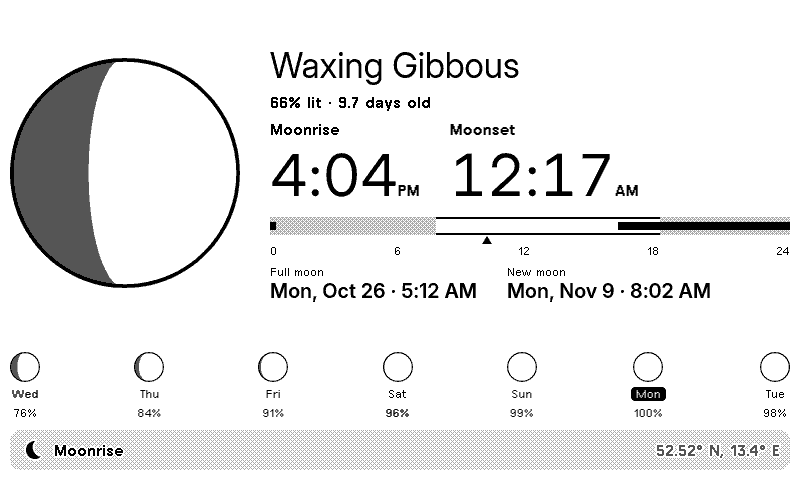
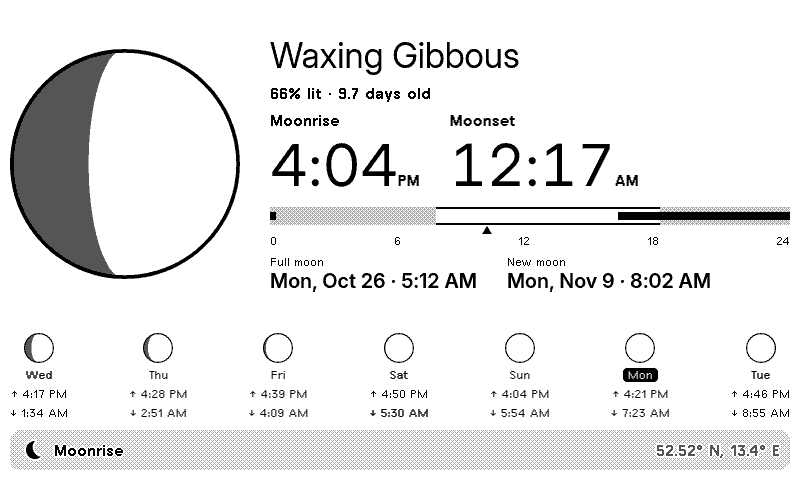
Show each day's moonrise and moonset in the week strip
The strip showed how much of the moon is lit on the coming days, much like the
phase timeline of TRMNL's own Lunar Calendar. It now shows when the moon rises
and sets on each of those days, which is what this recipe is about. The
transform finds them the same way as today's, per local day, so the switch to
winter time on Sunday keeps its 25 hours.

diff --git a/src/transform.py b/src/transform.py
@@ -272,6 +272,12 @@ def sun_spans(meteo, start, end):
     return None
 
 
+def day_bounds(day, tz):
+    """Local midnight to midnight (23 or 25 hours on a DST change day)."""
+    nxt = day + timedelta(days=1)
+    return datetime(day.year, day.month, day.day, tzinfo=tz), datetime(nxt.year, nxt.month, nxt.day, tzinfo=tz)
+
+
 def moon_for(lat, lon, tz, now, meteo=None):
     jd = jd_of(now)
     lit, elong, dist = illumination(jd)
@@ -281,9 +287,7 @@ def moon_for(lat, lon, tz, now, meteo=None):
 
     local = now.astimezone(tz)
     day = local.date()
-    start = datetime(day.year, day.month, day.day, tzinfo=tz)
-    nxt = day + timedelta(days=1)
-    end = datetime(nxt.year, nxt.month, nxt.day, tzinfo=tz)
+    start, end = day_bounds(day, tz)
     j0, j1 = jd_of(start), jd_of(end)
     pct = lambda jdx: round((jdx - j0) / (j1 - j0) * 100, 2)
 
@@ -308,14 +312,17 @@ def moon_for(lat, lon, tz, now, meteo=None):
         return {"phase": PHASES[kind], **day_of(at), **clock(at), "in_days": (at.date() - day).days}
 
     upcoming = [(j, k) for j, k in phases if j > jd]
+    local_clock = lambda j: clock(dt_of(j).astimezone(tz))
     days = []
     for n in range(1, 8):
-        d = day + timedelta(days=n)
-        noon = datetime(d.year, d.month, d.day, 12, tzinfo=tz)
-        d0, d1 = jd_of(noon) - 0.5, jd_of(noon) + 0.5
-        dl, de, _ = illumination(jd_of(noon))
-        days.append({**day_of(noon), "illum": round(dl * 100), "disc": disc_path(dl, de < 180, south),
-                     "phase": next((PHASES[k] for j, k in phases if d0 <= j < d1), None)})
+        d0, d1 = (jd_of(b) for b in day_bounds(day + timedelta(days=n), tz))
+        dl, de, _ = illumination((d0 + d1) / 2)
+        d_rises, d_sets, _ = rise_set(lat, lon, d0, d1)
+        days.append({**day_of(dt_of((d0 + d1) / 2).astimezone(tz)), "illum": round(dl * 100),
+                     "disc": disc_path(dl, de < 180, south),
+                     "phase": next((PHASES[k] for j, k in phases if d0 <= j < d1), None),
+                     "rise": local_clock(d_rises[0]) if d_rises else None,
+                     "set": local_clock(d_sets[0]) if d_sets else None})
 
     return {
         "ok": True,
@@ -323,8 +330,8 @@ def moon_for(lat, lon, tz, now, meteo=None):
         "lat": round(lat, 2), "lon": round(lon, 2),
         "illum": round(lit * 100), "age": round(jd - prev_new, 1), "phase": name, "waxing": waxing,
         "disc": disc_path(lit, waxing, south),
-        "rise": {**clock(dt_of(rises[0]).astimezone(tz)), "pct": pct(rises[0])} if rises else None,
-        "set": {**clock(dt_of(sets[0]).astimezone(tz)), "pct": pct(sets[0])} if sets else None,
+        "rise": {**local_clock(rises[0]), "pct": pct(rises[0])} if rises else None,
+        "set": {**local_clock(sets[0]), "pct": pct(sets[0])} if sets else None,
         "all_day": "up" if up and not events else "down" if not events else None,
         "up": [[pct(a), round(pct(b) - pct(a), 2)] for a, b in spans],
         "night": None if night is None else

diff --git a/tests/plugin_spec.rb b/tests/plugin_spec.rb
@@ -57,6 +57,12 @@ RSpec.describe 'Moonrise & Moonset' do
       expect(days.find { it['phase'] == 'full' }['day']).to eq(26)
     end
 
+    it "has each day's moonrise and moonset, across the switch to winter time" do
+      days = moon['days']
+      expect(days.first.values_at('rise', 'set').map { it['t24'] }).to eq(%w[16:17 01:34])
+      expect(days[4].values_at('day', 'rise', 'set').then { [it[0], it[1]['t24'], it[2]['t24']] }).to eq([25, '16:04', '05:54'])
+    end
+
     it 'asks Open-Meteo for the sun at the same place and time zone' do
       url = trmnl.transform(now:, mocks:, custom_fields:, variables:).requests.first[:url]
       expect(url).to include('latitude=52.5200', 'longitude=13.4050', 'timezone=Europe%2FBerlin', 'timeformat=unixtime')

diff --git a/README.md b/README.md
@@ -19,7 +19,7 @@ When the moon rises and sets today at your location, for [TRMNL](https://trmnl.c
 - Moonrise and moonset for your location and day, to the minute
 - The moon drawn in its phase (mirrored south of the equator), with the phase name, how much is lit and its age
 - A day bar from midnight to midnight: moon above the horizon in black, night in gray, now marked
-- Next full and new moon with date and time, and a strip with the moon for the next 7 days
+- Next full and new moon with date and time, and the next 7 days with moon, moonrise and moonset
 - The far north and south: days without a moonrise or moonset, or with the moon up or down all day
 - German or English (or follow the TRMNL account language), 24-hour or 12-hour times
 - All four TRMNL layouts (full, half horizontal, half vertical, quadrant), adapting to portrait and to TRMNL X
